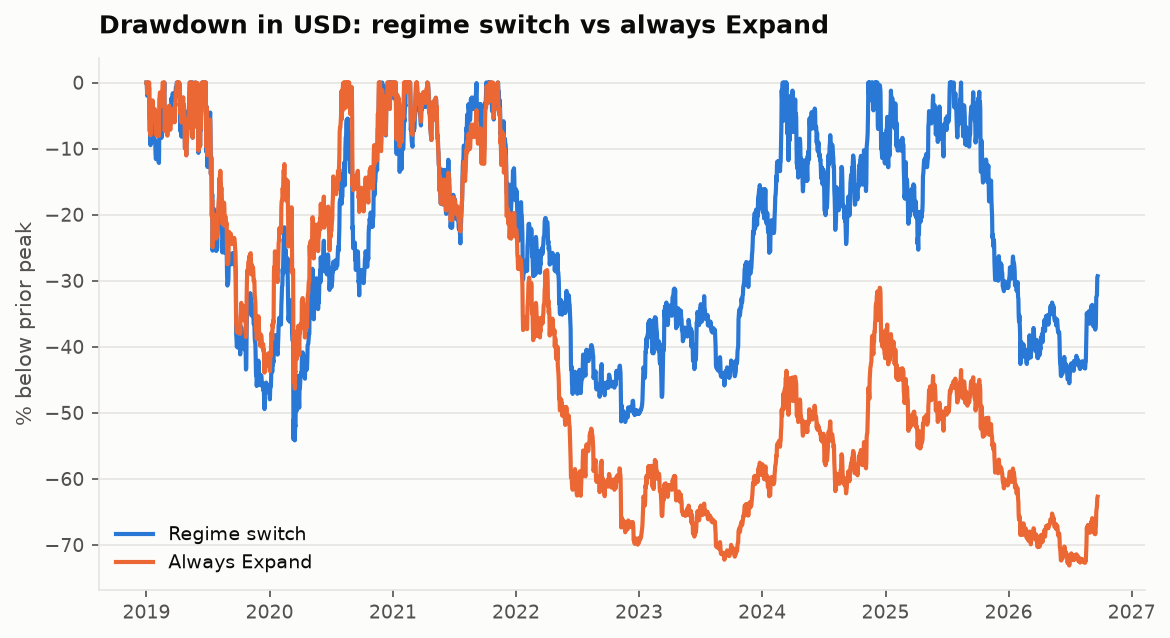
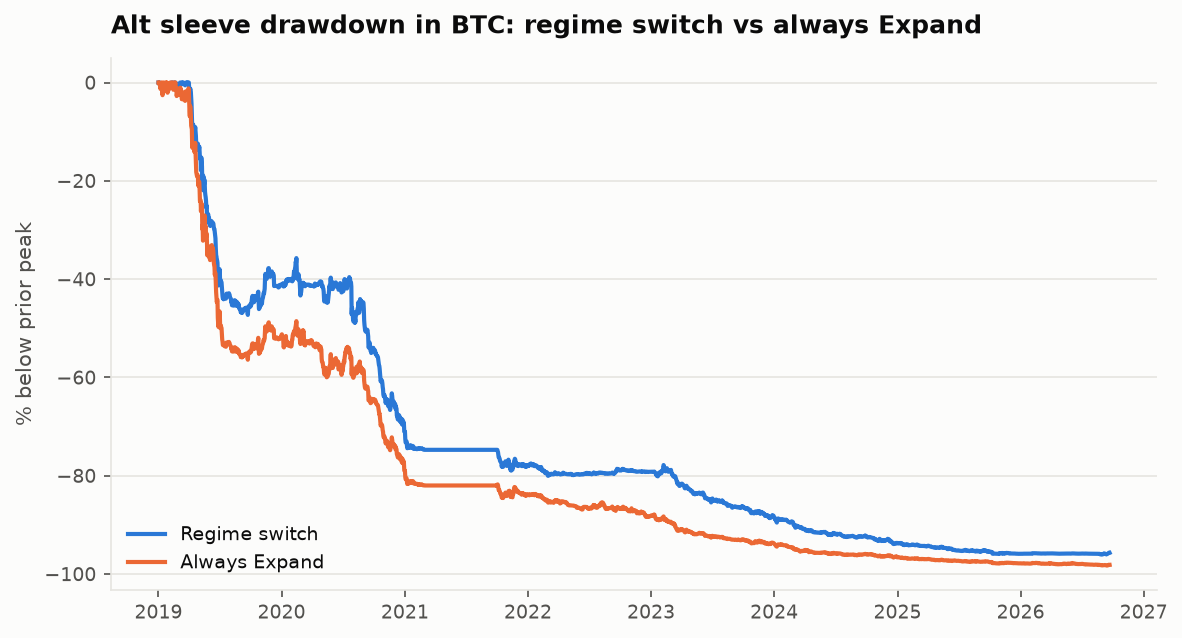
Phase 0 report: Matt's BTC core + sleeve plan vs hold and the program doc, Q1-Q5, charts
Fixes from the audit: zero/negative OI rows dropped, breaker off with no sleeve,
no phantom $0 alt buys, sleeve end/drawdown columns, chart label/legend overlaps.

diff --git a/engine/src/rotation/backtest/report.py b/engine/src/rotation/backtest/report.py
@@ -46,7 +46,9 @@ def _style(ax, title: str, ylabel: str) -> None:
     ax.tick_params(colors=INK2, labelsize=9)
 
 
-def _lines(path: Path, title: str, ylabel: str, series, fmt="{:.2f}", log=False) -> None:
+def _lines(
+    path: Path, title: str, ylabel: str, series, fmt="{:.2f}", log=False, legend="upper left"
+) -> None:
     fig, ax = plt.subplots(figsize=(9, 4.6), dpi=150)
     for name, s, color in series:
         ax.plot(s.index, s.values, color=color, linewidth=2, label=name)
@@ -71,7 +73,7 @@ def _lines(path: Path, title: str, ylabel: str, series, fmt="{:.2f}", log=False)
     if log:
         ax.set_yscale("log")
     _style(ax, title, ylabel)
-    ax.legend(frameon=False, fontsize=9, labelcolor=INK, loc="upper left")
+    ax.legend(frameon=False, fontsize=9, labelcolor=INK, loc=legend)
     fig.subplots_adjust(right=0.74)
     fig.savefig(path, bbox_inches="tight")
     plt.close(fig)
@@ -82,6 +84,13 @@ def _table(df: pd.DataFrame, start_btc: float) -> str:
     d[f"{start_btc:g} BTC became"] = (df["btc_multiple"] * start_btc).map(lambda x: f"{x:.2f} BTC")
     d["vs start"] = (df["btc_multiple"] - 1).map(lambda x: f"{x:+.0%}")
     d["USD multiple"] = df["usd_multiple"].map(lambda x: f"{x:.1f}x")
+    if df["sleeve_end_btc"].notna().any():
+        d["Sleeve at end"] = df["sleeve_end_btc"].map(
+            lambda x: "" if pd.isna(x) else f"{x:.2f} BTC"
+        )
+        d["Sleeve worst drop"] = df["sleeve_max_dd_btc"].map(
+            lambda x: "" if pd.isna(x) else f"{x:.0%}"
+        )
     d["Worst drop (BTC)"] = df["max_dd_btc"].map(lambda x: f"{x:.0%}")
     d["Worst drop (USD)"] = df["max_dd_usd"].map(lambda x: f"{x:.0%}")
     d["Alt buys"] = df["alt_entries"]
@@ -163,6 +172,7 @@ def build() -> Path:
         f"Total BTC, starting from {start_btc:g} BTC (2019 to 2026)",
         "BTC (net of tax reserve)",
         series,
+        legend="center right",
     )
 
     core_btc = eq["vault_btc"] + eq["vault_usd"] / eq["btc_close"]
@@ -171,6 +181,7 @@ def build() -> Path:
         "Your plan, split into core and sleeve (in BTC)",
         "BTC",
         [("Core (incl. stables waiting to rebuy)", core_btc, S1), ("Alt sleeve", sleeve, S2)],
+        legend="center left",
     )
 
     dd = []
@@ -191,22 +202,22 @@ def build() -> Path:
         w = btc.loc[t - pd.Timedelta(days=300) : t + pd.Timedelta(days=200)]
         ax.plot(w.index, w.values, color=S1, linewidth=2)
         row = q4.loc[cycle]
-        for key, lab in (
-            ("tier1_date", "3 flags"),
-            ("tier2_date", "5 flags"),
-            ("tier3_date", "exit"),
-        ):
+        marks = (("tier1_date", "3 flags"), ("tier2_date", "5 flags"), ("tier3_date", "exit"))
+        for i, (key, lab) in enumerate(marks):
             d = row[key]
             if d is not None and pd.Timestamp(d) in w.index:
                 ax.axvline(pd.Timestamp(d), color=S2, linewidth=1.2, linestyle="--")
+                left = i % 2 == 0  # alternate sides so tiers days apart don't overprint
                 ax.annotate(
                     lab,
                     (pd.Timestamp(d), w.max()),
+                    xytext=(-2 if left else 2, 0),
+                    textcoords="offset points",
                     fontsize=8,
                     color=INK2,
                     rotation=90,
                     va="top",
-                    ha="right",
+                    ha="right" if left else "left",
                 )
         _style(ax, f"{cycle} top", "BTC (USD)" if cycle == "2017" else "")
         ax.tick_params(axis="x", labelrotation=45)

diff --git a/engine/src/rotation/backtest/sim.py b/engine/src/rotation/backtest/sim.py
@@ -312,7 +312,7 @@ class Sim:
         # circuit breakers: level 1 freezes entries, level 2 forces Defend for a week;
         # after level 2 the peak re-bases so the breaker re-arms instead of latching
         self.peak = max(self.peak, v)
-        dd = 1 - v / self.peak
+        dd = 1 - v / self.peak if self.peak > 0 else 0.0  # no sleeve -> no breaker
         b = r.breakers
         level = 2 if dd >= b.level_2.drawdown else 1 if dd >= b.level_1.drawdown else 0
         if level >= 1 and self.breaker == 0:
@@ -480,7 +480,7 @@ class Sim:
             # 5% headroom: in sleeve mode, spending also sells BTC to reserve its own tax
             spare = min(self.idle(btc) - w["dry_powder"] * v, 0.95 * self.idle(btc))
             usd = min(r.positions.max_alt_weight * v * size[coin], room, spare)
-            if usd < r.rebalance.min_trade_frac * v:
+            if usd <= 0 or usd < r.rebalance.min_trade_frac * v:
                 continue
             self.buy(coin, row, usd, t, bucket, btc)
 

diff --git a/engine/tests/test_sim.py b/engine/tests/test_sim.py
@@ -248,3 +248,10 @@ def test_sleeve_books_conserve_btc_with_zero_costs():
     buy = res.trades[(res.trades.side == "buy") & (res.trades.coin_id == "alt")].iloc[0]
     pnl_btc = buy.qty * (130.0 - 100.0) / 30_000
     assert res.equity.iloc[-1].net_btc == pytest.approx(11.0 + pnl_btc, rel=1e-9)
+
+
+def test_no_sleeve_means_no_alt_buys():
+    from rotation.backtest.experiments import with_rules
+
+    res = _run(feats([100.0] * 3), mkt(3), rules=with_rules(S, portfolio={"sleeve_frac": 0.0}))
+    assert res.trades.empty or not (res.trades.coin_id == "alt").any()

diff --git a/engine/src/rotation/data/derivs.py b/engine/src/rotation/data/derivs.py
@@ -215,5 +215,6 @@ def combine_oi(fmap: pd.DataFrame) -> pd.DataFrame:
         if df is not None and len(df):
             parts.append(df.assign(coin_id=coin)[["coin_id", "date", "oi_usd"]])
     out = pd.concat(parts, ignore_index=True)
+    out = out[out["oi_usd"] > 0]  # zero/negative OI rows are archive errors, not data
     cache.write(out, "universe", "open_interest")
     return out

diff --git a/engine/src/rotation/backtest/experiments.py b/engine/src/rotation/backtest/experiments.py
@@ -58,6 +58,8 @@ def metrics(res: Result) -> dict:
         "avg_alt_weight": (e["alts_usd"] / e["value_usd"]).mean(),
         "end_btc": net.iloc[-1],
         "start_btc": net.iloc[0],
+        "sleeve_end_btc": e["sleeve_value_btc"].iloc[-1],
+        "sleeve_max_dd_btc": (1 - e["sleeve_value_btc"] / e["sleeve_value_btc"].cummax()).max(),
     }
 
 

diff --git a/docs/backtests/phase0-report.md b/docs/backtests/phase0-report.md
@@ -1,117 +1,131 @@
 # Phase 0 backtest report
 
-Generated 2026-09-24 21:57 UTC from config hash `cbac5c3017a51b88`
-(rules v1). Regenerate: `uv run rotation report`.
+Generated 2026-09-24 22:46 UTC · config hash `d1421cdb56a77aaf` (rules
+v1) · regenerate with `uv run rotation report`.
 
-**All results are measured in BTC**, net of the tax reserve (treated as owed). A BTC
-multiple of 1.00x means "ended with as much BTC as it started with"; buying BTC on day one
-and holding scores 0.996x after the purchase fee.
+**Everything is measured in BTC**, net of the tax reserve (treated as owed). The plan
+tested is Matt's (2026-09-24): **11 BTC, 90% kept as a
+BTC core that is never sold to rebalance, 10% as an alt sleeve that
+runs every rule.** Idle sleeve money is held as BTC. Sleeve losses are never topped up.
 
-## Headline
+## Headline: 2019-01-01 to 2026-09-22
 
-| 2019-01-01 to 2026-09-22 | BTC multiple |
+| variant                                      | 11 BTC became   | vs start   | USD multiple   | Sleeve at end   | Sleeve worst drop   | Worst drop (BTC)   | Worst drop (USD)   |   Alt buys |   Fees (BTC) |
+|:---------------------------------------------|:----------------|:-----------|:---------------|:----------------|:--------------------|:-------------------|:-------------------|-----------:|-------------:|
+| Your plan: BTC core + 10% alt sleeve         | 12.69 BTC       | +15%       | 26.8x          | 0.05 BTC        | 96%                 | 25%                | 65%                |        690 |         0.12 |
+| Core only, with the cycle-top exit (no alts) | 13.59 BTC       | +24%       | 28.6x          | 0.00 BTC        |                     | 26%                | 65%                |          0 |         0.04 |
+| Just hold the BTC                            | 11.00 BTC       | +0%        | 22.6x          | 0.00 BTC        |                     | 0%                 | 77%                |          0 |         0    |
+| Program doc as written: USD buckets, two-way | 2.51 BTC        | -77%       | 5.8x           |                 |                     | 81%                | 54%                |        563 |         2.29 |
+| Program doc: USD buckets, Vault top-up only  | 8.94 BTC        | -19%       | 18.9x          |                 |                     | 43%                | 62%                |         43 |         0.34 |
+
+![Total BTC](img/full-btc.png)
+
+**Where the plan's BTC came from**
+
+| Source | BTC |
 |---|---|
-| **Rotation rules** | **0.21x** |
-| HODL BTC | 1.00x |
-| Top-20 alts (equal weight) | 0.20x |
-| Top-100 alts (equal weight) | 0.09x |
+| Start | 11.00 |
+| Cycle-top exit on the core (rule 10): sold 3.66 BTC near the highs, rebought 6.06 BTC after a 50%+ crash | +2.40 |
+| Alt profits routed into the core (rule 5) | +0.34 |
+| Alt sleeve itself: 1.10 BTC at the start, 0.05 BTC at the end | -1.05 |
+| Tax reserve and other | +0.00 |
+| **End** | **12.69** |
 
-![Value in BTC](img/full-btc-multiple.png)
+Against the same core with no alts, the alt sleeve changed the result by
+**-0.90 BTC**. Against plain holding, the cycle-top exit changed it by
+**+2.59 BTC**.
 
-| variant          | BTC multiple   | USD multiple   | Max drawdown (USD)   | Max drawdown (BTC)   |   Alt entries |   Fees (BTC) | Avg alt weight   |
-|:-----------------|:---------------|:---------------|:---------------------|:---------------------|--------------:|-------------:|:-----------------|
-| Rotation (rules) | 0.21x          | 5.08x          | 54%                  | 82%                  |           544 |         2.23 | 17%              |
+![Core and sleeve](img/plan-parts.png)
 
-## Q1. Profit ladder vs hold, in BTC
+**The same designs in the two alt runs** (11 BTC at the start; alt baskets are
+equal-weight and point-in-time, shown as a BTC multiple)
 
-- **2020-21 run:** ladder 0.36x vs hold 0.50x in BTC (HODL BTC 1.00x, top-100 alts 2.09x).
-- **2023-25 run:** ladder 0.39x vs hold 0.36x in BTC (HODL BTC 1.00x, top-100 alts 0.26x).
+| Run | Your plan | Core only | Hold BTC | Program doc (USD) | Top-20 alts | Top-100 alts |
+|---|---|---|---|---|---|---|
+| 2020-21 run | 9.49 | 9.80 | 11.00 | 4.00 | 0.96x | 2.09x |
+| 2023-25 run | 10.34 | 11.00 | 11.00 | 3.92 | 0.41x | 0.26x |
 
-![Q1 2020-21](img/q1-2020-21.png)
-![Q1 2023-25](img/q1-2023-25.png)
+Run windows end at the cycle top, so BTC the core moved to stables near that top is still
+waiting for the rebuy and counts at the top's price.
+
+**Context: alts vs BTC.** An equal-weight basket of the top-20 alts ended 2019-26 at
+0.20x its starting BTC value; the top-100 at
+0.09x. Alts beat BTC in 2017 and, broadly, in 2020-21, and lost to it
+in every other stretch tested.
+
+## Q1. Profit ladder vs hold
 
 **2020-21 run**
 
-| variant                 | BTC multiple   | USD multiple   | Max drawdown (USD)   | Max drawdown (BTC)   |   Alt entries |   Fees (BTC) | Avg alt weight   |
-|:------------------------|:---------------|:---------------|:---------------------|:---------------------|--------------:|-------------:|:-----------------|
-| Ladder (rules)          | 0.36x          | 4.98x          | 25%                  | 68%                  |            89 |         0.49 | 14%              |
-| Hold (no profit-taking) | 0.50x          | 6.99x          | 28%                  | 58%                  |            60 |         0.41 | 19%              |
+| variant                 | 11 BTC became   | vs start   | USD multiple   | Sleeve at end   | Sleeve worst drop   | Worst drop (BTC)   | Worst drop (USD)   |   Alt buys |   Fees (BTC) |
+|:------------------------|:----------------|:-----------|:---------------|:----------------|:--------------------|:-------------------|:-------------------|-----------:|-------------:|
+| Ladder (rules)          | 9.49 BTC        | -14%       | 10.9x          | 0.41 BTC        | 64%                 | 25%                | 40%                |         96 |         0.05 |
+| Hold (no profit-taking) | 9.52 BTC        | -13%       | 11.0x          | 0.44 BTC        | 61%                 | 25%                | 39%                |         78 |         0.05 |
 
 **2023-25 run**
 
-| variant                 | BTC multiple   | USD multiple   | Max drawdown (USD)   | Max drawdown (BTC)   |   Alt entries |   Fees (BTC) | Avg alt weight   |
-|:------------------------|:---------------|:---------------|:---------------------|:---------------------|--------------:|-------------:|:-----------------|
-| Ladder (rules)          | 0.39x          | 3.21x          | 25%                  | 61%                  |           272 |         0.38 | 26%              |
-| Hold (no profit-taking) | 0.36x          | 2.94x          | 37%                  | 65%                  |           232 |         0.29 | 30%              |
-
+| variant                 | 11 BTC became   | vs start   | USD multiple   | Sleeve at end   | Sleeve worst drop   | Worst drop (BTC)   | Worst drop (USD)   |   Alt buys |   Fees (BTC) |
+|:------------------------|:----------------|:-----------|:---------------|:----------------|:--------------------|:-------------------|:-------------------|-----------:|-------------:|
+| Ladder (rules)          | 10.34 BTC       | -6%        | 7.1x           | 0.23 BTC        | 80%                 | 7%                 | 28%                |        354 |         0.08 |
+| Hold (no profit-taking) | 10.42 BTC       | -5%        | 7.1x           | 0.28 BTC        | 77%                 | 6%                 | 28%                |        322 |         0.07 |
 
 ## Q2. Does the ALT/BTC 50D gate help?
 
-| variant                   | BTC multiple   | USD multiple   | Max drawdown (USD)   | Max drawdown (BTC)   |   Alt entries |   Fees (BTC) | Avg alt weight   |
-|:--------------------------|:---------------|:---------------|:---------------------|:---------------------|--------------:|-------------:|:-----------------|
-| With ALT/BTC gate (rules) | 0.21x          | 5.08x          | 54%                  | 82%                  |           544 |         2.23 | 17%              |
-| Without ALT/BTC gate      | 0.22x          | 5.58x          | 60%                  | 81%                  |           559 |         2.31 | 17%              |
+| variant                   | 11 BTC became   | vs start   | USD multiple   | Sleeve at end   | Sleeve worst drop   | Worst drop (BTC)   | Worst drop (USD)   |   Alt buys |   Fees (BTC) |
+|:--------------------------|:----------------|:-----------|:---------------|:----------------|:--------------------|:-------------------|:-------------------|-----------:|-------------:|
+| With ALT/BTC gate (rules) | 12.69 BTC       | +15%       | 26.8x          | 0.05 BTC        | 96%                 | 25%                | 65%                |        690 |         0.12 |
+| Without ALT/BTC gate      | 12.72 BTC       | +16%       | 26.9x          | 0.06 BTC        | 95%                 | 25%                | 65%                |        788 |         0.13 |
 
 ## Q3. Does the BTC 200D regime switch cut drawdown?
 
-Max drawdown in USD: regime switch 54%, always Expand
-73%, always Accumulate 57%.
+In your plan the regime only steers the alt sleeve, so the drawdown that matters is the
+sleeve's.
 
-![Q3 drawdown](img/q3-drawdown.png)
+![Q3](img/q3-drawdown.png)
 
-| variant               | BTC multiple   | USD multiple   | Max drawdown (USD)   | Max drawdown (BTC)   |   Alt entries |   Fees (BTC) | Avg alt weight   |
-|:----------------------|:---------------|:---------------|:---------------------|:---------------------|--------------:|-------------:|:-----------------|
-| Regime switch (rules) | 0.21x          | 5.08x          | 54%                  | 82%                  |           544 |         2.23 | 17%              |
-| Always Expand         | 0.08x          | 1.89x          | 73%                  | 93%                  |           884 |         2.84 | 31%              |
-| Always Accumulate     | 0.37x          | 9.63x          | 57%                  | 69%                  |           543 |         2.35 | 17%              |
+| variant               | 11 BTC became   | vs start   | USD multiple   | Sleeve at end   | Sleeve worst drop   | Worst drop (BTC)   | Worst drop (USD)   |   Alt buys |   Fees (BTC) |
+|:----------------------|:----------------|:-----------|:---------------|:----------------|:--------------------|:-------------------|:-------------------|-----------:|-------------:|
+| Regime switch (rules) | 12.69 BTC       | +15%       | 26.8x          | 0.05 BTC        | 96%                 | 25%                | 65%                |        690 |         0.12 |
+| Always Expand         | 12.78 BTC       | +16%       | 27.0x          | 0.02 BTC        | 98%                 | 25%                | 65%                |        921 |         0.13 |
+| Always Accumulate     | 12.78 BTC       | +16%       | 27.0x          | 0.04 BTC        | 97%                 | 25%                | 65%                |        888 |         0.13 |
 
 ## Q4. Would the flags + backstop have exited near the tops?
 
-"vs top" is BTC's price when that tier first fired, relative to the cycle high
-(negative = below the top). Tier 1 = 3 flags (sell 25% of alts), tier 2 = 5 flags
-(sell 50% more + 20% of the Vault), tier 3 = 6 flags or the 20-week backstop (exit alts +
-another 20% of the Vault).
+"vs top" is BTC's price when that tier first fired, relative to the cycle high. Tier 1 = 3
+flags (sell 25% of alts); tier 2 = 5 flags (sell 50% more + 20% of the core to stables);
+tier 3 = 6 flags or the 20-week backstop (exit alts + another 20% of the core).
 
-![Q4 tops](img/q4-tops.png)
+![Q4](img/q4-tops.png)
 
-|   cycle | btc_top_date   | btc_top_usd   |   max_flags | tier1_date   | tier1_vs_top   |   tier1_days_from_top | tier2_date   | tier2_vs_top   |   tier2_days_from_top | tier3_date   | tier3_vs_top   |   tier3_days_from_top | backstop_date   | backstop_vs_top   | flags_missing_data             |
-|--------:|:---------------|:--------------|------------:|:-------------|:---------------|----------------------:|:-------------|:---------------|----------------------:|:-------------|:---------------|----------------------:|:----------------|:------------------|:-------------------------------|
-|    2017 | 2017-12-16     | $19,641       |           5 | 2017-05-24   | -88%           |                  -206 | 2017-06-05   | -86%           |                  -194 | 2018-02-04   | -58%           |                    50 | 2018-02-04      | -58%              | funding                        |
-|    2021 | 2021-11-08     | $67,542       |           5 | 2021-01-02   | -53%           |                  -310 | 2021-02-21   | -15%           |                  -260 | 2021-05-16   | -32%           |                  -176 | 2021-05-16      | -32%              |                                |
-|    2025 | 2025-10-06     | $124,824      |           2 |              |                |                   nan |              |                |                   nan |              |                |                   nan |                 |                   | altseason;funding;memes;mvrv_z |
+| cycle      | btc_top_date   | btc_top_usd   |   max_flags | tier1_date   | tier1_vs_top   | tier2_date   | tier2_vs_top   | tier3_date   | tier3_vs_top   | backstop_date   | backstop_vs_top   | flags_missing_data   |
+|:-----------|:---------------|:--------------|------------:|:-------------|:---------------|:-------------|:---------------|:-------------|:---------------|:----------------|:------------------|:---------------------|
+| 2017       | 2017-12-16     | $19,641       |           5 | 2017-05-24   | -88%           | 2017-06-05   | -86%           | 2018-02-04   | -58%           | 2018-02-04      | -58%              | funding              |
+| 2021 (Apr) | 2021-04-13     | $63,446       |           5 | 2021-01-02   | -50%           | 2021-02-21   | -9%            | 2021-05-16   | -27%           | 2021-05-16      | -27%              |                      |
+| 2021 (Nov) | 2021-11-08     | $67,542       |           5 | 2021-01-02   | -53%           | 2021-02-21   | -15%           | 2021-05-16   | -32%           | 2021-05-16      | -32%              |                      |
+| 2025       | 2025-10-06     | $124,824      |           2 |              |                |              |                |              |                |                 |                   |                      |
 
 ## Q5. Score threshold: enter at 3+ vs 4+ only
 
-| variant             | BTC multiple   | USD multiple   | Max drawdown (USD)   | Max drawdown (BTC)   |   Alt entries |   Fees (BTC) | Avg alt weight   |
-|:--------------------|:---------------|:---------------|:---------------------|:---------------------|--------------:|-------------:|:-----------------|
-| Enter at 3+ (rules) | 0.21x          | 5.08x          | 54%                  | 82%                  |           544 |         2.23 | 17%              |
-| Enter at 4+ only    | 0.21x          | 5.08x          | 54%                  | 82%                  |           544 |         2.23 | 17%              |
+| variant             | 11 BTC became   | vs start   | USD multiple   | Sleeve at end   | Sleeve worst drop   | Worst drop (BTC)   | Worst drop (USD)   |   Alt buys |   Fees (BTC) |
+|:--------------------|:----------------|:-----------|:---------------|:----------------|:--------------------|:-------------------|:-------------------|-----------:|-------------:|
+| Enter at 3+ (rules) | 12.69 BTC       | +15%       | 26.8x          | 0.05 BTC        | 96%                 | 25%                | 65%                |        690 |         0.12 |
+| Enter at 4+ only    | 12.81 BTC       | +16%       | 27.1x          | 0.11 BTC        | 91%                 | 25%                | 65%                |        394 |         0.13 |
 
 Walk-forward (train 730 days, test
-180 days, pick the variant that did better in training):
-chooser 0.49x, always 3+ 0.49x, always 4+ 0.49x over 11 six-month test windows.
+180 days, pick whichever did better in training): chooser 0.923x, always 3+ 0.915x, always 4+ 0.928x (total-portfolio BTC multiple, chained over 11 six-month test windows).
 
-## Open question: Vault rebalancing
+## Data quality
 
-The program doc gives Vault targets per regime but does not say whether the Vault is
-ever *sold* to get back to target. The two readings behave very differently:
-
-| variant           | BTC multiple   | USD multiple   | Max drawdown (USD)   | Max drawdown (BTC)   |   Alt entries |   Fees (BTC) | Avg alt weight   |
-|:------------------|:---------------|:---------------|:---------------------|:---------------------|--------------:|-------------:|:-----------------|
-| Two-way Vault     | 0.21x          | 5.08x          | 54%                  | 82%                  |           544 |         2.23 | 17%              |
-| Top-up-only Vault | 0.81x          | 18.88x         | 62%                  | 43%                  |            43 |         0.34 | 1%               |
-
-## Data quality and what is missing
-
-| Input | Status in this backtest |
+| Input | Status |
 |---|---|
-| Point-in-time top 100, incl. dead coins | Full (CoinGecko Analyst backfill, 57,781 coins) |
-| Prices | CoinMetrics reference rate for BTC (all dates) and 88 alts (pre-2019); CoinGecko otherwise |
+| Point-in-time top 100, incl. dead coins | Full: CoinGecko Analyst backfill, 57,781 coins |
+| Prices | CoinMetrics reference rate for BTC (all dates) and 88 alts before 2019; CoinGecko otherwise |
 | Funding | Binance perps from 2020-01; 318 coins mapped and price-validated |
-| Open interest | Binance, from n/a; before that "not crowded" is judged on funding alone |
-| Token unlocks, exchange count, catalyst | **Not available historically**: gates pass by default (live-only) |
-| Flags without data | listed per cycle in the Q4 table (`flags_missing_data`) |
-| 2017-18 alt prices | CoinGecko-only for coins CoinMetrics doesn't cover: noisy (BTC's CoinGecko series was off by up to 21% on the worst days) |
+| Open interest | Binance from 2021-12-01; before that "not crowded" uses funding alone |
+| Known perp gaps | TON before 2026-07 (ticker rebrand), MKR, FTM, BTT (migrations): no funding/OI |
+| Token unlocks, exchange count, catalyst | Not available historically: those gates pass by default |
+| Flags without data | per cycle in the Q4 table (`flags_missing_data`) |
+| 2017-18 alt prices | CoinGecko-only where CoinMetrics has no series: noisy |
 
 Three cycles is a small sample. These results show the direction and size of each rule's
 effect on this history; they cannot prove statistical significance.
